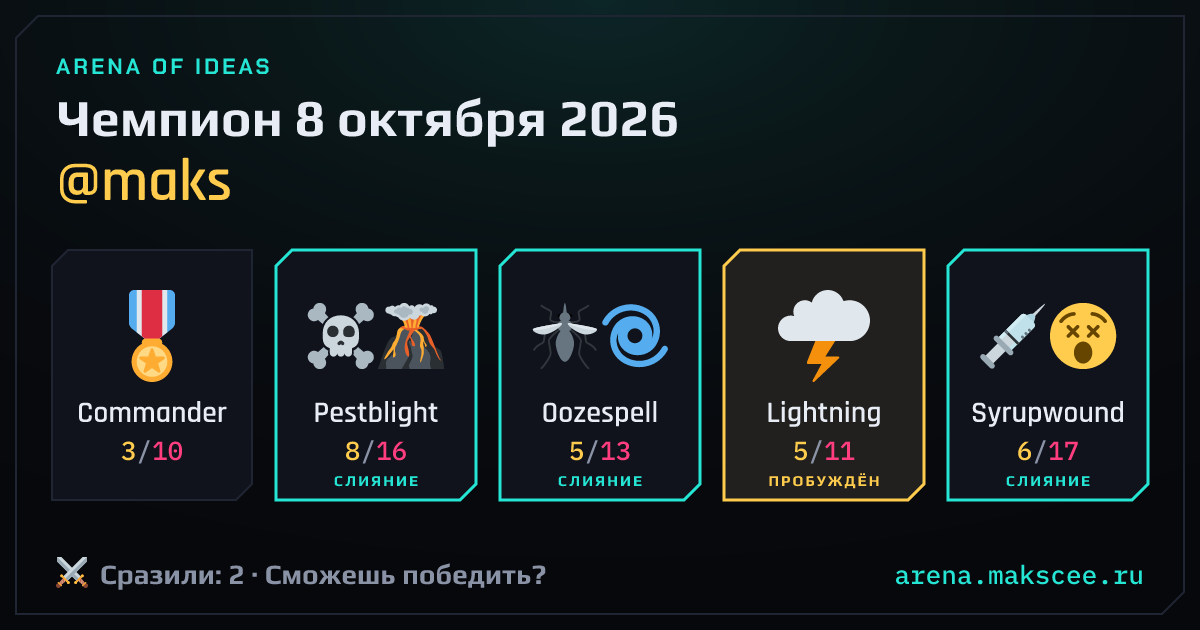
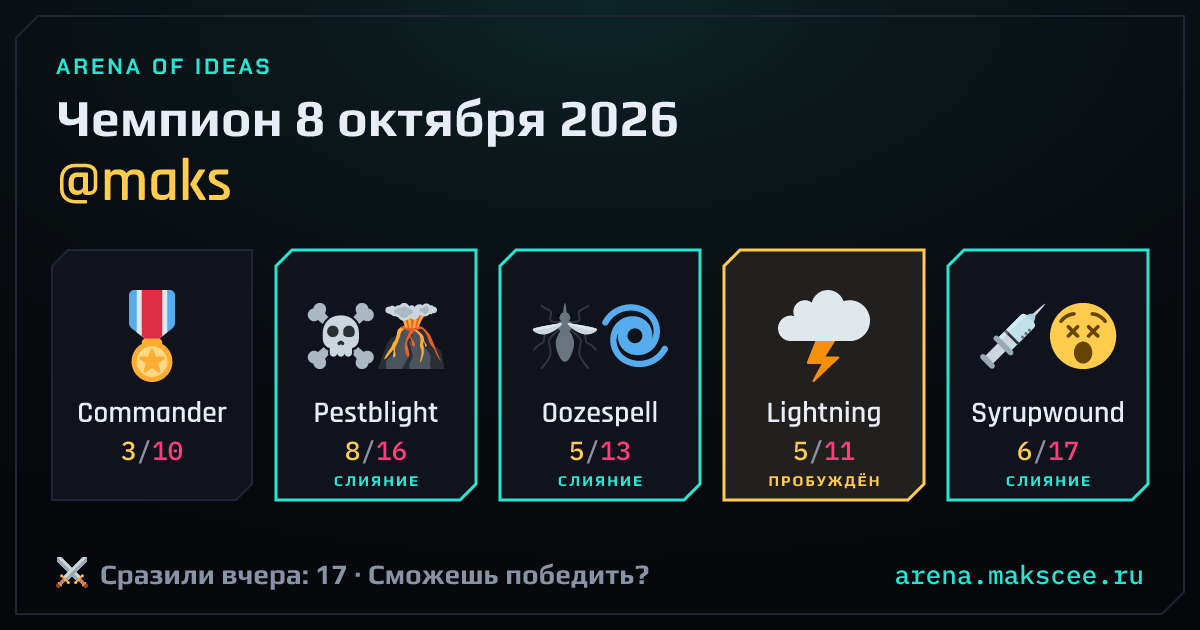
M4-8: the post's card counts the ended day's slayers, like its text; 'slayers' / 'убийц чемпиона' (review)

Changed region(s): [[0.185, 0.8746, 0.555, 0.9349]]

diff --git a/server/src/mvp/daily-post.test.ts b/server/src/mvp/daily-post.test.ts
@@ -9,9 +9,10 @@ import { join } from "node:path";
 import { afterEach, describe, expect, it } from "vitest";
 import type { Champion, PlayerRef } from "../../../src/mvp/contract.js";
 import { lineUnitOf } from "../../../src/mvp/forms.js";
-import { CAPTION_MAX, dailyMessages, dailyPostConfig, dailyPostJob, dailyPostJobWith, postDay, postFacts, postGroups, POST_WINDOW_MS, readBotToken, telegramSender, type TelegramSender } from "./daily-post.js";
+import { CAPTION_MAX, dailyMessages, dailyPostConfig, dailyPostJob, dailyPostJobWith, postDay, postFacts, postGroups, postText, POST_WINDOW_MS, readBotToken, telegramSender, type TelegramSender } from "./daily-post.js";
 import { poolContent, seedUnits } from "./pool.js";
 import { mvpRuntime } from "./runtime.js";
+import { championSvg, sharePng } from "./share.js";
 import { MemoryMvpStore } from "./store.js";
 
 const TOKEN = "123456:TEST-token-never-real";
@@ -139,15 +140,47 @@ describe("the daily post (M4-8)", () => {
     const [ru, en] = tg.calls;
     expect(en!.text).toContain(`👑 Champion of Oct 9, 2026: @${champ.player.name}`);
     expect(en!.text).toContain(champ.line.map((u) => `${u.emoji} ${u.name}`).join(" · "));
-    expect(en!.text).toContain("⚔ 2 players slew the champion yesterday. Can you beat them?");
+    expect(en!.text).toContain("⚔ 2 slayers yesterday. Can you beat the champion?");
     expect(en!.text).toContain("New in the arena:\n🦔 Hedgehog — idea by @lev");
     expect(en!.text).toContain(`Gone to the Library:\n${left.row.emoji} ${left.row.name}`);
     expect(en!.text.endsWith("Play: https://arena.makscee.ru/arena/")).toBe(true);
     expect(ru!.text).toContain(`👑 Чемпион 9 октября 2026: @${champ.player.name}`);
-    expect(ru!.text).toContain("⚔ Вчера чемпиона сразили: 2. Сможешь победить?");
+    expect(ru!.text).toContain("⚔ Вчера 2 убийцы чемпиона. Сможешь победить?");
     expect(ru!.text).toContain("Новые в арене:\n🦔 Hedgehog — идея @lev");
     expect(ru!.text).toContain("Играть: https://arena.makscee.ru/arena/");
     for (const c of tg.calls) expect([...c.photo!.slice(0, 4)]).toEqual([0x89, 0x50, 0x4e, 0x47]);
+  });
+
+  it("the photo agrees with the text: the card counts the ended day's slayers, the live card today's", async () => {
+    const w = world();
+    w.clock.t = AFTER;
+    expect(w.rt.today().seq).toBe(2);
+    // The live /share card of today: no slays yet on day 2.
+    expect(championSvg(w.rt, 2, "en")).toContain("0 slayers · Can you beat them?");
+    expect(championSvg(w.rt, 2, "en", 2)).toContain("2 slew yesterday · Can you beat them?");
+    expect(championSvg(w.rt, 2, "ru", 2)).toContain("Сразили вчера: 2 · Сможешь победить?");
+    const [ru, en] = dailyMessages(w.rt, 2, [["ru"], ["en"]], CFG.publicUrl);
+    expect(postFacts(w.rt, 2).slayers).toBe(2);
+    expect(Buffer.compare(ru!.png!, sharePng(championSvg(w.rt, 2, "ru", 2)!).png)).toBe(0);
+    expect(Buffer.compare(en!.png!, sharePng(championSvg(w.rt, 2, "en", 2)!).png)).toBe(0);
+  });
+
+  it("counts slayers in Russian with the right word form", () => {
+    const w = world();
+    w.clock.t = AFTER;
+    const f = postFacts(w.rt, 2);
+    const line = (n: number) => postText({ ...f, slayers: n }, "ru").split("\n").find((l) => l.startsWith("⚔"));
+    expect([1, 2, 5, 11, 21, 22, 112].map(line)).toEqual([
+      "⚔ Вчера 1 убийца чемпиона. Сможешь победить?",
+      "⚔ Вчера 2 убийцы чемпиона. Сможешь победить?",
+      "⚔ Вчера 5 убийц чемпиона. Сможешь победить?",
+      "⚔ Вчера 11 убийц чемпиона. Сможешь победить?",
+      "⚔ Вчера 21 убийца чемпиона. Сможешь победить?",
+      "⚔ Вчера 22 убийцы чемпиона. Сможешь победить?",
+      "⚔ Вчера 112 убийц чемпиона. Сможешь победить?",
+    ]);
+    expect(postText({ ...f, slayers: 0 }, "ru")).toContain("⚔ Вчера убийц чемпиона не было. Сможешь победить?");
+    expect(postText({ ...f, slayers: 1 }, "en")).toContain("⚔ 1 slayer yesterday. Can you beat the champion?");
   });
 
   it("posts a day once: again, from a second job (a restart) or after a retried day end, nothing more is sent", async () => {
@@ -173,7 +206,7 @@ describe("the daily post (M4-8)", () => {
     expect(tg.calls).toHaveLength(4);
     expect(tg.calls[2]!.text).toContain("сохраняет корону"); // no slayers on day 2: the champion keeps the throne
     expect(tg.calls[3]!.text).toContain("keeps the crown on Oct 10, 2026");
-    expect(tg.calls[3]!.text).toContain("No one slew the champion yesterday.");
+    expect(tg.calls[3]!.text).toContain("⚔ No slayers yesterday.");
   });
 
   it("a failed send is retried with backoff (Telegram's retry_after wins), then recorded as sent", async () => {

diff --git a/server/src/mvp/daily-post.ts b/server/src/mvp/daily-post.ts
@@ -52,7 +52,7 @@ export interface PostFacts {
   champion: Champion | null;
   /** True: the playoff crowned them; false: the champion kept the throne. */
   crowned: boolean;
-  /** The players who slew the champion on the day that ended. */
+  /** The slayers (players and bots) of the day that ended. */
   slayers: number;
   entered: PostUnit[];
   left: PostUnit[];
@@ -90,8 +90,8 @@ const WORDS = {
     champion: (date: string, who: string) => `👑 Champion of ${date}: ${who}`,
     keeps: (date: string, who: string) => `👑 ${who} keeps the crown on ${date}`,
     none: (date: string) => `👑 ${date}: the throne is empty`,
-    slayers: (n: number) => (n === 0 ? "⚔ No one slew the champion yesterday." : `⚔ ${n} ${n === 1 ? "player" : "players"} slew the champion yesterday.`),
-    canYou: "Can you beat them?",
+    slayers: (n: number) => (n === 0 ? "⚔ No slayers yesterday." : `⚔ ${n} ${n === 1 ? "slayer" : "slayers"} yesterday.`),
+    canYou: "Can you beat the champion?",
     entered: "New in the arena:",
     left: "Gone to the Library:",
     ideaBy: (p: string) => `idea by @${p}`,
@@ -104,7 +104,7 @@ const WORDS = {
     champion: (date: string, who: string) => `👑 Чемпион ${date}: ${who}`,
     keeps: (date: string, who: string) => `👑 ${who} сохраняет корону ${date}`,
     none: (date: string) => `👑 ${date}: трон пуст`,
-    slayers: (n: number) => (n === 0 ? "⚔ Вчера чемпиона не сразил никто." : `⚔ Вчера чемпиона сразили: ${n}.`),
+    slayers: (n: number) => (n === 0 ? "⚔ Вчера убийц чемпиона не было." : `⚔ Вчера ${n} ${ruSlayers(n)} чемпиона.`),
     canYou: "Сможешь победить?",
     entered: "Новые в арене:",
     left: "Ушли в Библиотеку:",
@@ -115,6 +115,14 @@ const WORDS = {
     play: (url: string) => `Играть: ${url}`,
   },
 } satisfies Record<ShareLang, unknown>;
+
+/** 1 убийца, 2 убийцы, 5 убийц, 21 убийца. */
+function ruSlayers(n: number): string {
+  const [d, dd] = [n % 10, n % 100];
+  if (d === 1 && dd !== 11) return "убийца";
+  if (d >= 2 && d <= 4 && (dd < 12 || dd > 14)) return "убийцы";
+  return "убийц";
+}
 
 /** A photo's caption holds at most 1024 characters (Telegram's limit). */
 export const CAPTION_MAX = 1024;
@@ -164,7 +172,8 @@ export function dailyMessages(rt: PostDeps, seq: number, groups: ShareLang[][], 
     const text = (max: number) => langs.map((l) => postText(f, l, publicUrl, max)).join("\n\n");
     let max = Math.max(f.entered.length, f.left.length);
     while (max > 0 && text(max).length > CAPTION_MAX) max--;
-    const svg = championSvg(rt, seq, langs[0]!);
+    // The card counts the same slayers as the text: the day that ended.
+    const svg = championSvg(rt, seq, langs[0]!, f.slayers);
     return { key: langs.join("+"), langs, text: text(max), png: svg ? sharePng(svg).png : null };
   });
 }

diff --git a/server/src/mvp/share.ts b/server/src/mvp/share.ts
@@ -51,6 +51,7 @@ const WORDS = {
     game: "ARENA OF IDEAS",
     championOf: (day: string) => `Champion of ${day}`,
     slayers: (n: number) => `${n} ${n === 1 ? "slayer" : "slayers"}`,
+    slewYesterday: (n: number) => `${n} slew yesterday`,
     canYou: "Can you beat them?",
     awoken: "AWOKEN",
     fused: "FUSED",
@@ -68,6 +69,7 @@ const WORDS = {
     game: "ARENA OF IDEAS",
     championOf: (day: string) => `Чемпион ${day}`,
     slayers: (n: number) => `Сразили: ${n}`,
+    slewYesterday: (n: number) => `Сразили вчера: ${n}`,
     canYou: "Сможешь победить?",
     awoken: "ПРОБУЖДЁН",
     fused: "СЛИЯНИЕ",
@@ -242,8 +244,10 @@ function unitCard(u: { emoji: string; name: string; pwr: number; hp: number; tie
 
 // ---------- the two cards ----------
 
-/** Day `seq`'s champion: null when the day has none yet, or hasn't come. */
-export function championSvg(rt: ShareDeps, seq: number, lang: ShareLang): string | null {
+/** Day `seq`'s champion: null when the day has none yet, or hasn't come.
+ * `slewYesterday` shows the day before's slayers instead of day `seq`'s (the
+ * daily post, M4-8: right after the day end today's count is still 0). */
+export function championSvg(rt: ShareDeps, seq: number, lang: ShareLang, slewYesterday?: number): string | null {
   if (seq > rt.today().seq) return null;
   const champ = championOf(rt.store, seq);
   if (!champ) return null;
@@ -256,7 +260,7 @@ export function championSvg(rt: ShareDeps, seq: number, lang: ShareLang): string
     textEl(who.text, 56, 200, who.size, BODY, C.gold),
     lineCards(champ.line, lang),
     emojiRow("⚔", 72, SHARE_H - 74, 32),
-    textEl(`${w.slayers(slayers)} · ${w.canYou}`, 100, SHARE_H - 46, 28, BODY, C.dim),
+    textEl(`${slewYesterday === undefined ? w.slayers(slayers) : w.slewYesterday(slewYesterday)} · ${w.canYou}`, 100, SHARE_H - 46, 28, BODY, C.dim),
   ].join("\n");
   return frame(body, lang);
 }
